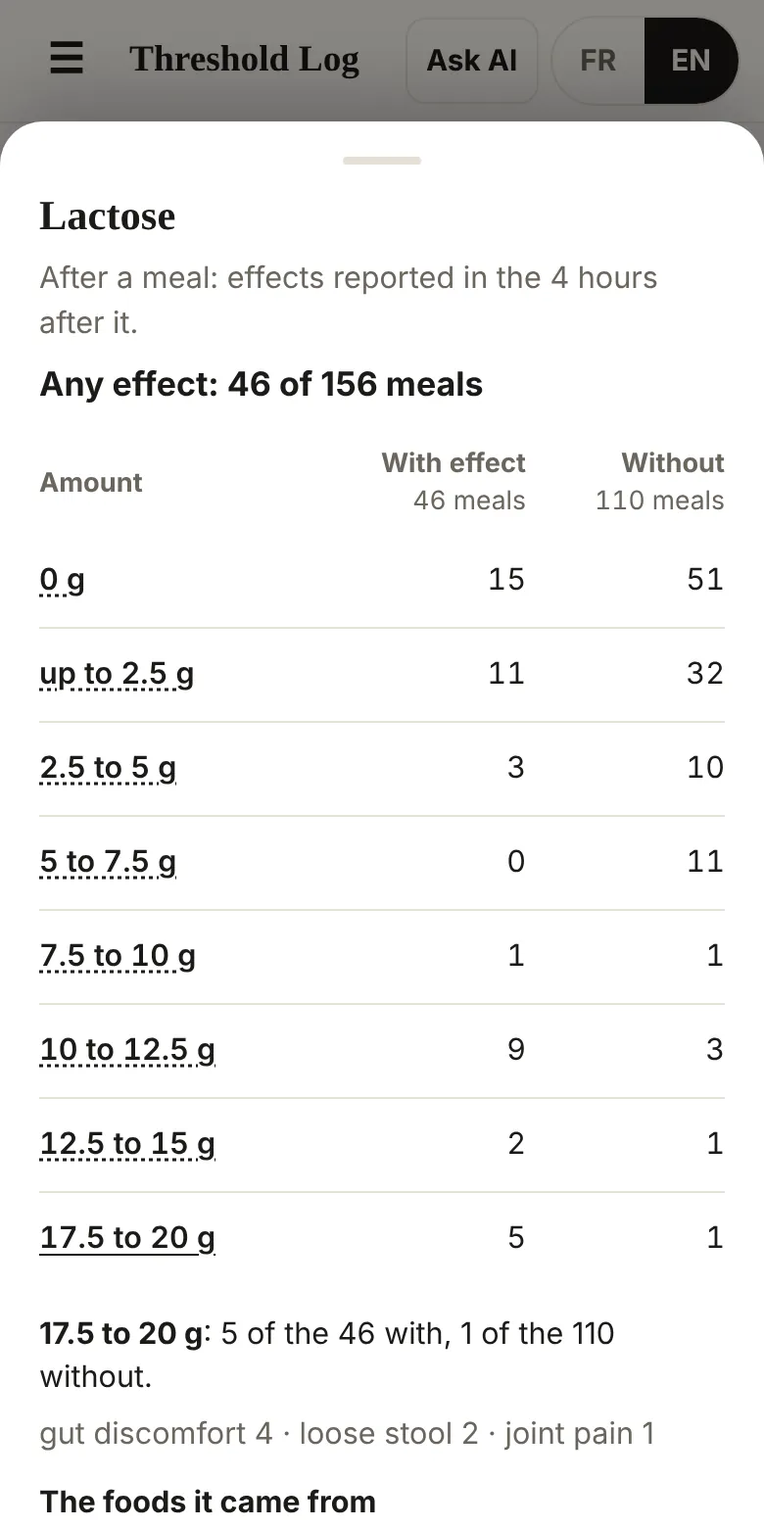
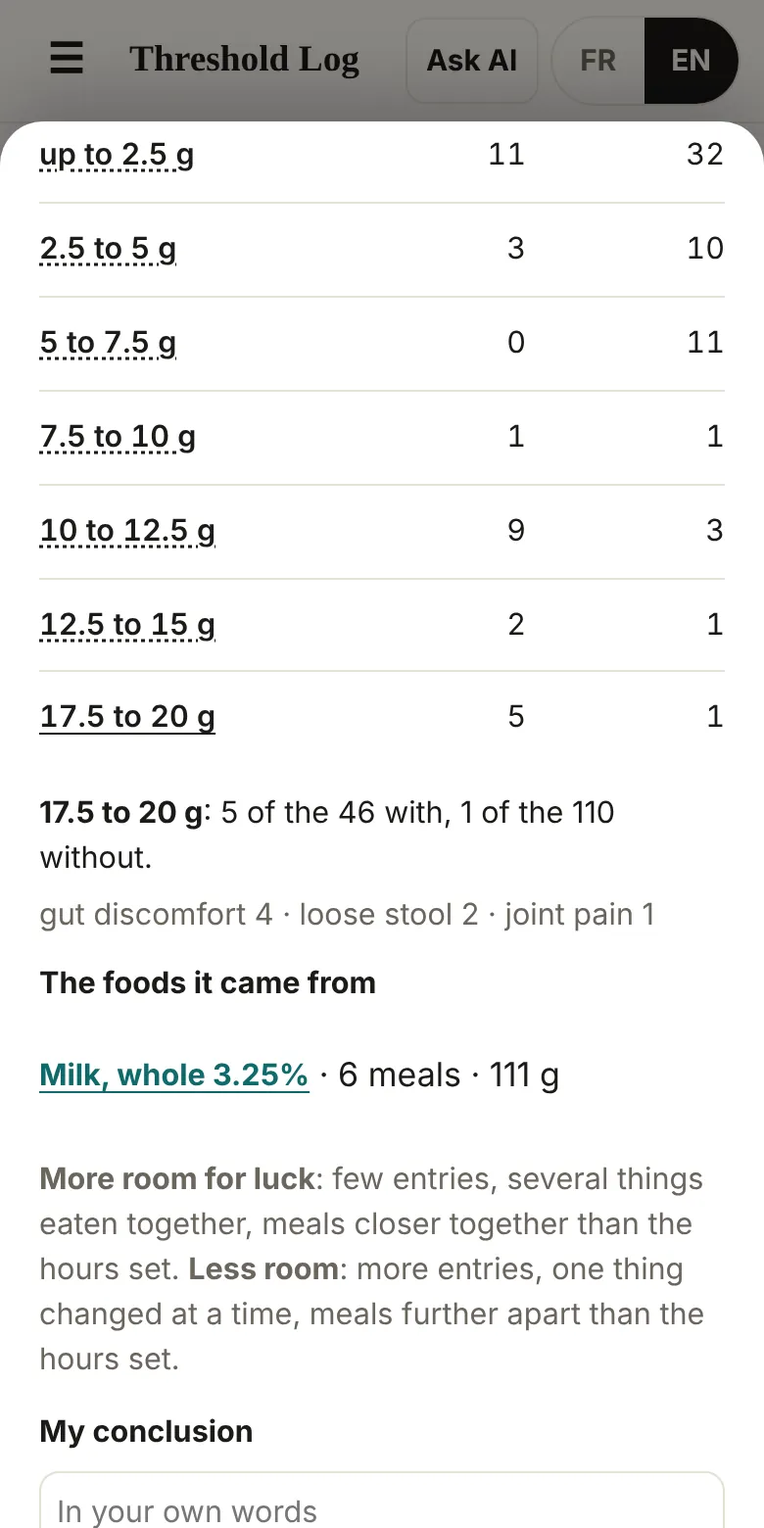
Threshold Log 0.4.9: an opened row names the foods it came from
Tapping a row's name opened its amounts; the foods showed only after a
second tap, on one amount, and only for that amount.

The opened row now names the foods it came from at once, above the
amounts: every food the person ate that held it, each with how many of
the counted meals (or days) it was in, the most frequent first. Eight are
shown, with a link for the rest, and each one opens that food. Tapping an
amount still gives the foods of that amount alone.

Claude-Session: https://claude.ai/code/session_0165oQGZXNu1ULEJPAkewgjN

diff --git a/threshold/app/index.html b/threshold/app/index.html
@@ -726,7 +726,7 @@ return {H,WIN,WINS,STEPS,ZEPS,MANY,groups,BUCKETS,COMPS,FAMS,TAGS,line,table,spl
 if(typeof module!=='undefined') module.exports=TLE;
 /* ENGINE:END */
 /* ===================== APP: the screens. Data in, data out: the app reports what was entered and never interprets it. ===================== */
-const VER='0.4.8', CONSENT=1, KEY='v3k.threshold.v1', GUTKEYS=['v3k.gut.v1','v3k.gut.fr.v1'];   /* the Food Trial Log keeps its English and its French copy apart */
+const VER='0.4.9', CONSENT=1, KEY='v3k.threshold.v1', GUTKEYS=['v3k.gut.v1','v3k.gut.fr.v1'];   /* the Food Trial Log keeps its English and its French copy apart */
 const E=TLE, H=36e5;
 const FRAMED=(()=>{ try{ return window.self!==window.top; }catch(e){ return true; } })();
 const STANDALONE=(()=>{ try{ return !!(navigator.standalone||matchMedia('(display-mode: standalone)').matches); }catch(e){ return false; } })();
@@ -1141,7 +1141,13 @@ function stepFoods(B,s){ if(s.i<0) return []; const I=IX(), ids=new Set(s.ids), 
   for(const k of I.keys) for(const m of I.D[k].meals){ const unit=B.mode==='day'?k:m.e.id; if(!ids.has(unit)) continue;
     for(const it of m.e.items){ const x=E.amounts(food(it.key),it.q)[B.b]; if(!(x>0)) continue; const a=agg[it.key]||(agg[it.key]={key:it.key,x:0,u:new Set()}); a.x+=x; a.u.add(unit); } }
   return Object.values(agg).sort((a,b)=>b.x-a.x).slice(0,5); }
-/* one line, opened: every amount, with how many meals or days sat on each side. Tap an amount for its share of each side and the foods it came from. */
+/* every food the row came from, over all the counted meals or days that held some of it: the ones it was in most often first */
+function lineFoods(B){ const s={i:0,ids:B.units.filter(u=>u.x>E.ZEPS).map(u=>u.id)}, I=IX(), ids=new Set(s.ids), agg={};
+  for(const k of I.keys) for(const m of I.D[k].meals){ const unit=B.mode==='day'?k:m.e.id; if(!ids.has(unit)) continue;
+    for(const it of m.e.items){ const x=E.amounts(food(it.key),it.q)[B.b]; if(!(x>0)) continue; const a=agg[it.key]||(agg[it.key]={key:it.key,x:0,u:new Set()}); a.x+=x; a.u.add(unit); } }
+  return Object.values(agg).sort((a,b)=>b.u.size-a.u.size||b.x-a.x||fname(food(a.key)).localeCompare(fname(food(b.key)))); }
+const FOODS_SHOWN=8;
+/* one line, opened: every amount, with how many meals or days sat on each side, and the foods it came from. Tap an amount for its share of each side and its own foods. */
 function rowSheet(keep){ const u=UI.rs, sel=selOf(), al=sel.length>1&&S.tall!==false, B=E.bar(IX(),u.b,S.tmode,sel,al), all=[B.zero].concat(B.steps).filter(s=>s.n>0), N=B.n, K=all.reduce((t,s)=>t+s.k,0);
   const [en,fr]=BARN[u.b], uw=n=>unitWord(B.mode,n), cur=u.i==null?null:all.find(s=>s.i===u.i)||null; let more='';
   if(cur){ const from=stepFoods(B,cur), kinds=Object.entries(cur.fx).sort((a,b)=>b[1]-a[1]||a[0].localeCompare(b[0]));
@@ -1151,8 +1157,9 @@ function rowSheet(keep){ const u=UI.rs, sel=selOf(), al=sel.length>1&&S.tall!==f
   showSheet(`<h3 id="sheetTitle">${L(en,fr)}</h3>
   <p class="small muted" style="margin:0 0 8px">${B.mode==='meal'?L(`After a meal: effects reported in ${hrsAfter(thrH())}.`,'Après un repas : effets notés dans '+hrsAfter(thrH())+'.'):L('Over a day: effects reported that day, that night and the next day.','Sur une journée : effets notés ce jour-là, cette nuit-là et le lendemain.')}</p>
   ${N?`<p style="margin:0"><b>${esc(cap(selName(sel,al)))}${COL()}${K} ${L('of','sur')} ${N} ${uw(N)}</b></p>
+  ${(F=>F.length?`<p class="small" style="margin:10px 0 6px"><b>${B.mode==='day'?L('The foods it came from, and on how many days','Les aliments d’où ça vient, et pendant combien de journées'):L('The foods it came from, and in how many meals','Les aliments d’où ça vient, et dans combien de repas')}</b></p><div class="gtabs" id="lineFoods">${(u.allf?F:F.slice(0,FOODS_SHOWN)).map(a=>`<button type="button" data-act="foodrd" data-v="${esc(a.key)}">${esc(fname(food(a.key)))} · ${a.u.size}</button>`).join('')}</div>${F.length>FOODS_SHOWN&&!u.allf?`<p style="margin:2px 0 0"><button type="button" class="lnk" data-act="rsall">${L(`Show all ${F.length}`,`Afficher les ${F.length}`)}</button></p>`:''}`:'')(lineFoods(B))}
   <table class="cov rws" id="rowSteps"><thead><tr><th scope="col" style="text-align:left">${L('Amount','Quantité')}</th>${sideHead(B.mode,K,N-K)}</tr></thead><tbody>${all.map(s=>`<tr><th scope="row"><button type="button" class="rowb" data-act="rstep" data-v="${s.i}" aria-pressed="${u.i===s.i}">${stepRange(B,s)}</button></th><td>${s.k}</td><td>${s.n-s.k}</td></tr>`).join('')}</tbody></table>
-  ${more||`<p class="small muted" style="margin:0">${L('Tap an amount to see the foods it came from.','Appuie sur une quantité pour voir les aliments d’où elle vient.')}</p>`}${luckNote(B.mode)}`
+  ${more||`<p class="small muted" style="margin:0">${L('Tap an amount for the foods of that amount alone.','Appuie sur une quantité pour voir les aliments de cette quantité seulement.')}</p>`}${luckNote(B.mode)}`
     :`<p class="small muted">${L('Nothing counted yet.','Rien de compté pour l’instant.')}</p>`}
   ${B.left?`<p class="small muted" style="margin:10px 0 0">${L(`${B.left} ${uw(B.left)} left out`,`${B.left} ${uw(B.left)} laissé${B.mode==='day'?'e':''}${B.left>1?'s':''} de côté`)}${COL()}${leftWhy2(u.b)}.</p>`:''}
   ${INFO[u.b]?`<p style="margin:10px 0 0"><button type="button" class="lnk" data-act="comp" data-v="${u.b}">${L('What it is, and where the figure comes from','Ce que c’est, et d’où vient le chiffre')}</button></p>`:''}
@@ -1359,7 +1366,7 @@ function helpSheet(){ const H2=(en,fr,ten,tfr)=>`<p class="small"><b>${L(en,fr)}
   +H2('The ring.','L’anneau.','Under Nutrition. What you reported eating in the period, by weight, as a day on average: fat, protein, complex carbs, lactose, other sugars and fibre. The key under it has the grams, and the middle has their total. Alcohol, caffeine and the other compounds are in the card below it, as totals for the period. “Carbs, kind not listed” are the carbs of foods whose sugars Health Canada doesn’t list.','Dans l’onglet Nutrition. Ce que tu as noté avoir mangé pendant la période, selon le poids, pour une journée en moyenne\u00a0: gras, protéines, glucides complexes, lactose, autres sucres et fibres. La légende en dessous donne les grammes, et le milieu donne leur total. L’alcool, la caféine et les autres composés sont dans la carte en dessous, en totaux pour la période. Les «\u00a0glucides, sorte non indiquée\u00a0» sont les glucides des aliments dont Santé Canada n’indique pas les sucres.')
   +H2('Histamine, estimated.','Histamine, estimée.','One of the other compounds. It’s the weight of each serving times the average for its food type in a 2011 European table. The amount in your own piece can be many times more or less: one kind of cheese has measured from under 5 to over 1,000 mg per kg. Read it as a count of histamine food.','Un des autres composés. C’est le poids de chaque portion multiplié par la moyenne de son type d’aliment dans un tableau européen de 2011. La quantité dans ton propre morceau peut être plusieurs fois plus grande ou plus petite\u00a0: une même sorte de fromage a déjà mesuré de moins de 5 à plus de 1\u00a0000 mg par kg. Lis-le comme un compte d’aliments à histamine.')
   +H2('Other compounds.','Autres composés.','What your food carried beyond the ring, in five families: amines, plant compounds, fermentable sugars, added, and other. Milligrams where a source gives a figure, marked ≈ when it is an estimate. Portions where it doesn’t. Tap a name for what it is, how the body clears it and where the figure comes from. A food added from its label carries what you tick on its form.','Ce que tes aliments contenaient en plus de l’anneau, en cinq familles : amines, composés végétaux, sucres fermentescibles, ajoutés, et autres. En milligrammes quand une source donne un chiffre, avec ≈ quand c’est une estimation. En portions sinon. Appuie sur un nom pour savoir ce que c’est, comment le corps l’élimine et d’où vient le chiffre. Un aliment ajouté selon son étiquette contient ce que tu coches dans son formulaire.')
-  +H2('The Threshold lists.','Les listes de seuil.','Under Filter, pick an effect, or leave it on “Any effect”. Pick several and choose how they combine: all of them together, or any of them. Your picks are kept. Each row is one thing you ate or drank. A thing you never had has no row. Each meal or day is a dot on it: the further right, the more it had. Filled dots are the meals or days the effect was reported for. Empty dots are all the others. A mark stands at the amount that best puts the filled dots on one side of it and the empty dots on the other, and the sentence under the row counts them. The filled dots can be the ones from the mark up, or the ones under it, when an effect comes with less of a thing. The rows where the mark does that best come first. A row has no mark when no amount does better than none, and those rows come last. Under Settings, “Rows shown” sets how many rows you see: Minimal keeps only the rows with a clear mark, where more than half of the filled dots are on one side and more than half of the empty dots on the other; Medium keeps every row with a mark; Full shows them all. When no row has a clear mark, the tab offers “Ask AI”, set on everything: it copies your whole log, and the question you ask is yours. The more meals you report, the more accurate it gets. Nothing is averaged. Tap a row’s name for every amount, with how many meals or days sat on each side. A meal joins the lists as soon as an effect is reported after it, or once its hours are over with none. A day joins once the day after it is over, so the next day’s effects are all in. When nothing is reported for the day after, a day joins only if the effect is already there. Under Settings, choose the reading. “After a meal” reads one meal and the hours after it: the slider sets how many, from 1 to 8, and it starts at 4. An effect picked alone keeps its own hours. One effect can fall in the hours after two meals, and then it counts for both. “Over a day” reads the total for a day with that day, that night and the next day. Poor sleep counts for the night before the morning you report it.','Dans Filtre, choisis un effet, ou reste sur « Tout effet ». Choisis-en plusieurs et décide comment ils se combinent : tous ensemble, ou n’importe lequel. Tes choix sont gardés. Chaque ligne est une chose que tu as mangée ou bue. Une chose que tu n’as jamais prise n’a pas de ligne. Chaque repas ou journée y est un point : plus il est à droite, plus il en contenait. Les points pleins sont les repas ou les journées pour lesquels l’effet a été noté. Les points vides sont tous les autres. Une marque se place à la quantité qui met le mieux les points pleins d’un côté et les points vides de l’autre, et la phrase sous la ligne les compte. Les points pleins peuvent être ceux à partir de la marque, ou ceux en dessous, quand un effet vient avec moins d’une chose. Les lignes où la marque y arrive le mieux viennent en premier. Une ligne n’a pas de marque quand aucune quantité ne fait mieux que rien, et ces lignes viennent en dernier. Dans Réglages, « Lignes affichées » règle combien de lignes tu vois : Minimale garde seulement les lignes à la marque nette, où plus de la moitié des points pleins sont d’un côté et plus de la moitié des points vides de l’autre; Moyenne garde toutes les lignes qui ont une marque; Complète les montre toutes. Quand aucune ligne n’a de marque nette, l’onglet propose « Demander à l’IA », réglé sur tout : ça copie tout ton journal, et la question que tu poses est la tienne. Plus tu notes de repas, plus c’est précis. Aucune moyenne n’est faite. Appuie sur le nom d’une ligne pour voir chaque quantité, avec le nombre de repas ou de jours de chaque côté. Un repas entre dans les listes dès qu’un effet est noté après, ou quand ses heures sont terminées sans effet. Une journée y entre quand le lendemain est terminé, pour que les effets du lendemain y soient tous. Quand rien n’est noté pour le lendemain, une journée y entre seulement si l’effet y est déjà. Dans Réglages, choisis la lecture. « Après un repas » lit un repas et les heures suivantes : le curseur règle combien, de 1 à 8, et il commence à 4. Un effet choisi seul garde ses propres heures. Un même effet peut tomber dans les heures qui suivent deux repas, et il compte alors pour les deux. « Sur une journée » lit le total d’une journée avec ce jour-là, cette nuit-là et le lendemain. Un mauvais sommeil compte pour la nuit qui précède le matin où tu le notes.')
+  +H2('The Threshold lists.','Les listes de seuil.','Under Filter, pick an effect, or leave it on “Any effect”. Pick several and choose how they combine: all of them together, or any of them. Your picks are kept. Each row is one thing you ate or drank. A thing you never had has no row. Each meal or day is a dot on it: the further right, the more it had. Filled dots are the meals or days the effect was reported for. Empty dots are all the others. A mark stands at the amount that best puts the filled dots on one side of it and the empty dots on the other, and the sentence under the row counts them. The filled dots can be the ones from the mark up, or the ones under it, when an effect comes with less of a thing. The rows where the mark does that best come first. A row has no mark when no amount does better than none, and those rows come last. Under Settings, “Rows shown” sets how many rows you see: Minimal keeps only the rows with a clear mark, where more than half of the filled dots are on one side and more than half of the empty dots on the other; Medium keeps every row with a mark; Full shows them all. When no row has a clear mark, the tab offers “Ask AI”, set on everything: it copies your whole log, and the question you ask is yours. The more meals you report, the more accurate it gets. Nothing is averaged. Tap a row’s name for every amount, with how many meals or days sat on each side, and for the foods it came from. A meal joins the lists as soon as an effect is reported after it, or once its hours are over with none. A day joins once the day after it is over, so the next day’s effects are all in. When nothing is reported for the day after, a day joins only if the effect is already there. Under Settings, choose the reading. “After a meal” reads one meal and the hours after it: the slider sets how many, from 1 to 8, and it starts at 4. An effect picked alone keeps its own hours. One effect can fall in the hours after two meals, and then it counts for both. “Over a day” reads the total for a day with that day, that night and the next day. Poor sleep counts for the night before the morning you report it.','Dans Filtre, choisis un effet, ou reste sur « Tout effet ». Choisis-en plusieurs et décide comment ils se combinent : tous ensemble, ou n’importe lequel. Tes choix sont gardés. Chaque ligne est une chose que tu as mangée ou bue. Une chose que tu n’as jamais prise n’a pas de ligne. Chaque repas ou journée y est un point : plus il est à droite, plus il en contenait. Les points pleins sont les repas ou les journées pour lesquels l’effet a été noté. Les points vides sont tous les autres. Une marque se place à la quantité qui met le mieux les points pleins d’un côté et les points vides de l’autre, et la phrase sous la ligne les compte. Les points pleins peuvent être ceux à partir de la marque, ou ceux en dessous, quand un effet vient avec moins d’une chose. Les lignes où la marque y arrive le mieux viennent en premier. Une ligne n’a pas de marque quand aucune quantité ne fait mieux que rien, et ces lignes viennent en dernier. Dans Réglages, « Lignes affichées » règle combien de lignes tu vois : Minimale garde seulement les lignes à la marque nette, où plus de la moitié des points pleins sont d’un côté et plus de la moitié des points vides de l’autre; Moyenne garde toutes les lignes qui ont une marque; Complète les montre toutes. Quand aucune ligne n’a de marque nette, l’onglet propose « Demander à l’IA », réglé sur tout : ça copie tout ton journal, et la question que tu poses est la tienne. Plus tu notes de repas, plus c’est précis. Aucune moyenne n’est faite. Appuie sur le nom d’une ligne pour voir chaque quantité, avec le nombre de repas ou de jours de chaque côté, et les aliments d’où ça vient. Un repas entre dans les listes dès qu’un effet est noté après, ou quand ses heures sont terminées sans effet. Une journée y entre quand le lendemain est terminé, pour que les effets du lendemain y soient tous. Quand rien n’est noté pour le lendemain, une journée y entre seulement si l’effet y est déjà. Dans Réglages, choisis la lecture. « Après un repas » lit un repas et les heures suivantes : le curseur règle combien, de 1 à 8, et il commence à 4. Un effet choisi seul garde ses propres heures. Un même effet peut tomber dans les heures qui suivent deux repas, et il compte alors pour les deux. « Sur une journée » lit le total d’une journée avec ce jour-là, cette nuit-là et le lendemain. Un mauvais sommeil compte pour la nuit qui précède le matin où tu le notes.')
   +H2('Luck.','Le hasard.','The app puts no number on luck. A split between “With” and “Without” can come from luck alone. Luck has more room when there are few entries, when several things are eaten together, and when meals are closer together than the hours set on the slider. It has less room with more entries, with one thing changed at a time, and with meals further apart than the hours set. The same words sit under every opened line.','L’app ne met aucun chiffre sur le hasard. Un écart entre « Avec » et « Sans » peut venir du seul hasard. Le hasard a plus de place quand il y a peu d’entrées, quand plusieurs choses sont mangées ensemble et quand les repas sont plus rapprochés que les heures réglées sur le curseur. Il a moins de place avec plus d’entrées, avec une seule chose changée à la fois et avec des repas plus espacés que les heures réglées. Les mêmes mots se trouvent sous chaque ligne ouverte.')
   +H2('What the lists can’t tell apart.','Ce que les listes ne peuvent pas départager.','Things eaten together. If your high-fat meals were also your aged-cheese meals, both lines show the same split. Histamine and tyramine sit in the same foods, and so do gluten and fructans, so their lines move together. “Eaten together” counts the meals or days with 3 or more portions of aged or fermented foods, those with alcohol beside one, and those that held 5 compounds or more: alcohol, caffeine, histamine food and each of the other compounds count once. And what you expect can shape what you feel and report.','Les choses mangées ensemble. Si tes repas riches en gras étaient aussi tes repas de fromage vieilli, les deux lignes montrent le même écart. L’histamine et la tyramine sont dans les mêmes aliments, le gluten et les fructanes aussi, alors leurs lignes bougent ensemble. « Mangés ensemble » compte les repas ou les jours avec 3 portions ou plus d’aliments vieillis ou fermentés, ceux avec de l’alcool et un de ces aliments, et ceux qui contenaient 5 composés ou plus : l’alcool, la caféine, les aliments à histamine et chacun des autres composés comptent une fois. Et ce à quoi tu t’attends peut influencer ce que tu ressens et ce que tu notes.')
   +H2('One food.','Un aliment.','On the Threshold tab, look up a food to see what you reported on the days you ate it, by the amount eaten that day, and on the days without it. Both are read over the same span: that day, that night and the next day.','Dans l’onglet Seuil, cherche un aliment pour voir ce que tu as noté les jours où tu en as mangé, selon la quantité mangée ce jour-là, et les jours sans cet aliment. Les deux sont lus sur la même durée : ce jour-là, cette nuit-là et le lendemain.')
@@ -1441,7 +1448,7 @@ const ACT={
   hmeal:()=>{ const k=histDay(); if(!k) return; const prev=V; openMeal(null); V.prev=prev; if(k!==today()){ V.day=k; V.at='12:00'; } render(); },
   hfx:()=>{ const k=histDay(); if(!k) return; pruneOwn(); UI.fx={tab:'phys',sel:[],day:k,at:k===today()?hm(now()):'12:00',own:''}; fxSheet(); },
   /* the bars and one food */
-  rowsheet:b=>{ UI.rs={b:b.dataset.k,i:null}; rowSheet(); }, rstep:b=>{ const i=+b.dataset.v; UI.rs.i=UI.rs.i===i?null:i; rowSheet(true); },
+  rowsheet:b=>{ UI.rs={b:b.dataset.k,i:null}; rowSheet(); }, rstep:b=>{ const i=+b.dataset.v; UI.rs.i=UI.rs.i===i?null:i; rowSheet(true); }, rsall:()=>{ UI.rs.allf=true; rowSheet(true); },
   tall:b=>{ S.tall=b.dataset.v==='1'; render(true); thrFilterSheet(true); },
   tfx:b=>{ const v=b.dataset.v, t=selOf().slice(), i=t.indexOf(v); if(!v) S.tsel=[]; else { if(i>=0) t.splice(i,1); else t.push(v); S.tsel=t; } render(true); thrFilterSheet(true); },
   comp:b=>{ UI.cp=b.dataset.v; compSheet(); }, comps:()=>compsSheet(),

diff --git a/tests/threshold/screens.test.js b/tests/threshold/screens.test.js
@@ -346,7 +346,17 @@ async function open(browser, base, o) {
       { const flat = t => t.replace(/[\s\u00a0\u202f]+/g, ' ').trim(), m = (await head()).match(/\d+/g).map(Number), want = fr ? [`Avec effet ${m[1]} repas`, `Sans ${m[2] - m[1]} repas`] : [`With effect ${m[1]} meals`, `Without ${m[2] - m[1]} meals`];
         same(T + '“Eaten together”: the columns are “With effect” and “Without”, with the meals in each', (await page.locator('#fam-tog thead th').allInnerTexts()).slice(1).map(flat), want);
         await page.click('#app [data-act=rowsheet][data-k=fat]'); await page.waitForSelector('#rowSteps');
-        same(T + 'an opened line: the same two columns', (await page.locator('#rowSteps thead th').allInnerTexts()).slice(1).map(flat), want); await sheetShut(page); }
+        same(T + 'an opened line: the same two columns', (await page.locator('#rowSteps thead th').allInnerTexts()).slice(1).map(flat), want);
+        // an opened row names the foods it came from at once: every food eaten that held it, with how many of the counted meals it was in
+        const foods = await page.evaluate(() => { const ids = new Set(E.bar(IX(), 'fat', 'meal').units.filter(u => u.x > 0.005).map(u => u.id)), n = {};
+          for (const e of S.ev) if (e.k === 'meal' && ids.has(e.id)) for (const key of new Set(e.items.filter(it => E.amounts(food(it.key), it.q).fat > 0).map(it => it.key))) n[key] = (n[key] || 0) + 1;
+          return Object.entries(n).map(([k, c]) => [fname(food(k)), c]); });
+        const read = async () => (await page.locator('#lineFoods button').allInnerTexts()).map(t => { const m = flat(t).match(/^(.*) · (\d+)$/); return m ? [m[1], +m[2]] : [flat(t), -1]; }), first = await read(), least = Math.min(...first.map(f => f[1]));
+        ok(T + 'the opened row lists the 8 foods it came from most often, each with its count of meals', first.length === 8 && first.every(f => foods.some(w => w[0] === f[0] && w[1] === f[1])) && first.every((f, i) => !i || first[i - 1][1] >= f[1]) && foods.filter(w => w[1] > least).every(w => first.some(f => f[0] === w[0])), JSON.stringify(first));
+        ok(T + 'the list sits above the amounts, under a heading that says what the number is', flat(await page.locator('#sheet').innerText()).indexOf(fr ? 'Les aliments d’où ça vient, et dans combien de repas' : 'The foods it came from, and in how many meals') > 0 && await page.evaluate(() => document.getElementById('lineFoods').getBoundingClientRect().top < document.getElementById('rowSteps').getBoundingClientRect().top));
+        same(T + 'a link says how many there are in all', flat(await page.locator('#sheet [data-act=rsall]').innerText()), fr ? `Afficher les ${foods.length}` : `Show all ${foods.length}`);
+        await page.click('#sheet [data-act=rsall]'); same(T + 'and shows them all, every food that held it and no other', [(await read()).map(f => f.join(':')).sort(), await page.locator('#sheet [data-act=rsall]').count()], [foods.map(f => f.join(':')).sort(), 0]);
+        await page.locator('#lineFoods button').first().click(); same(T + 'a food in the list opens that food', flat(await page.locator('#sheetTitle').innerText()), first[0][0]); await sheetShut(page); }
       ok(T + '“Eaten together” has the line for 5 compounds or more', (await page.locator('#togMany').innerText()).includes(fr ? '5 composés ou plus dans le repas' : '5 compounds or more in the meal'));
       await filterOpen(page); await page.click('#sheet .fxpick [data-act=tfx][data-v=head]'); await sheetShut(page); await setHours(page, 2);
       same(T + 'with one effect filtered, the slider sets that effect’s own hours and leaves the general ones', await page.evaluate(() => [S.tsel, S.fxw, S.twin]), [['head'], { head: 2 }, 4]);

diff --git a/threshold/app/sw.js b/threshold/app/sw.js
@@ -1,7 +1,7 @@
 /* Threshold Log — offline cache. A new app version changes CACHE, so phones pick it up on the next open with a connection.
    Copyright (C) 2026  Tobie David · SPDX-License-Identifier: AGPL-3.0-or-later, with two terms under its section 7 (see the notice
    at the top of index.html) · https://github.com/tobiedavid/v3ktor.org */
-const CACHE='thresholdlog-0.4.8-95807177';
+const CACHE='thresholdlog-0.4.9-e0126b16';
 const SHELL=['./','index.html','manifest.webmanifest','icons/icon-192.png','icons/icon-512.png','icons/maskable-512.png','icons/apple-touch-icon.png','icons/favicon-32.png'];
 self.addEventListener('install',e=>{ e.waitUntil(caches.open(CACHE).then(c=>c.addAll(SHELL)).then(()=>self.skipWaiting())); });
 self.addEventListener('activate',e=>{ e.waitUntil(caches.keys().then(ks=>Promise.all(ks.filter(k=>k.startsWith('thresholdlog-')&&k!==CACHE).map(k=>caches.delete(k)))).then(()=>self.clients.claim())); });

diff --git a/threshold/README.md b/threshold/README.md
@@ -72,7 +72,7 @@ A row appears only when a counted meal or day held some of it (since 0.4.1 this 
 
 **How to read it.** The first time the tab is opened, a card at its top shows two made-up rows (one an amount separates, one it doesn't), says what the dots are, and ends with "The more meals you report, the more accurate it gets." It stays until "Got it" is tapped (`seenThr` in the saved data); "How to read this tab", under the rows, brings it back. Since 0.4.6 the paragraph under the heading is one line once the card is closed ("Each dot is a meal: the further right, the more it had."); while the card is up it also says where the mark stands and which rows come first.
 
-"Eaten together" is still a small table of shares and counts, and an opened line still lists every amount with how many sat on each side. Since 0.4.7 their two columns are headed "With effect" and "Without", each with how many meals or days it holds: "With" alone, beside a food's name, read as "with that food".
+"Eaten together" is still a small table of shares and counts, and an opened line still lists every amount with how many sat on each side. Since 0.4.9 an opened row names the foods it came from at once, above the amounts: every food the person ate that held it, with how many of the counted meals (or days) it was in, the most frequent first, eight shown and a link for the rest. Each opens that food. Tapping an amount still gives the foods of that amount alone. Since 0.4.7 their two columns are headed "With effect" and "Without", each with how many meals or days it holds: "With" alone, beside a food's name, read as "with that food".
 
 **Over a day, and the day after.** A day is read with the next day's effects. Since 0.4.5, when nothing at all is reported for the next day (no effect, no tap on "No effects today"), a day with none of the picked effects is not settled, so it waits, as a meal whose hours are not over does. A day that already has the picked effects is counted. The tab says how many days wait for that reason. "One food" follows the same rule.
 
